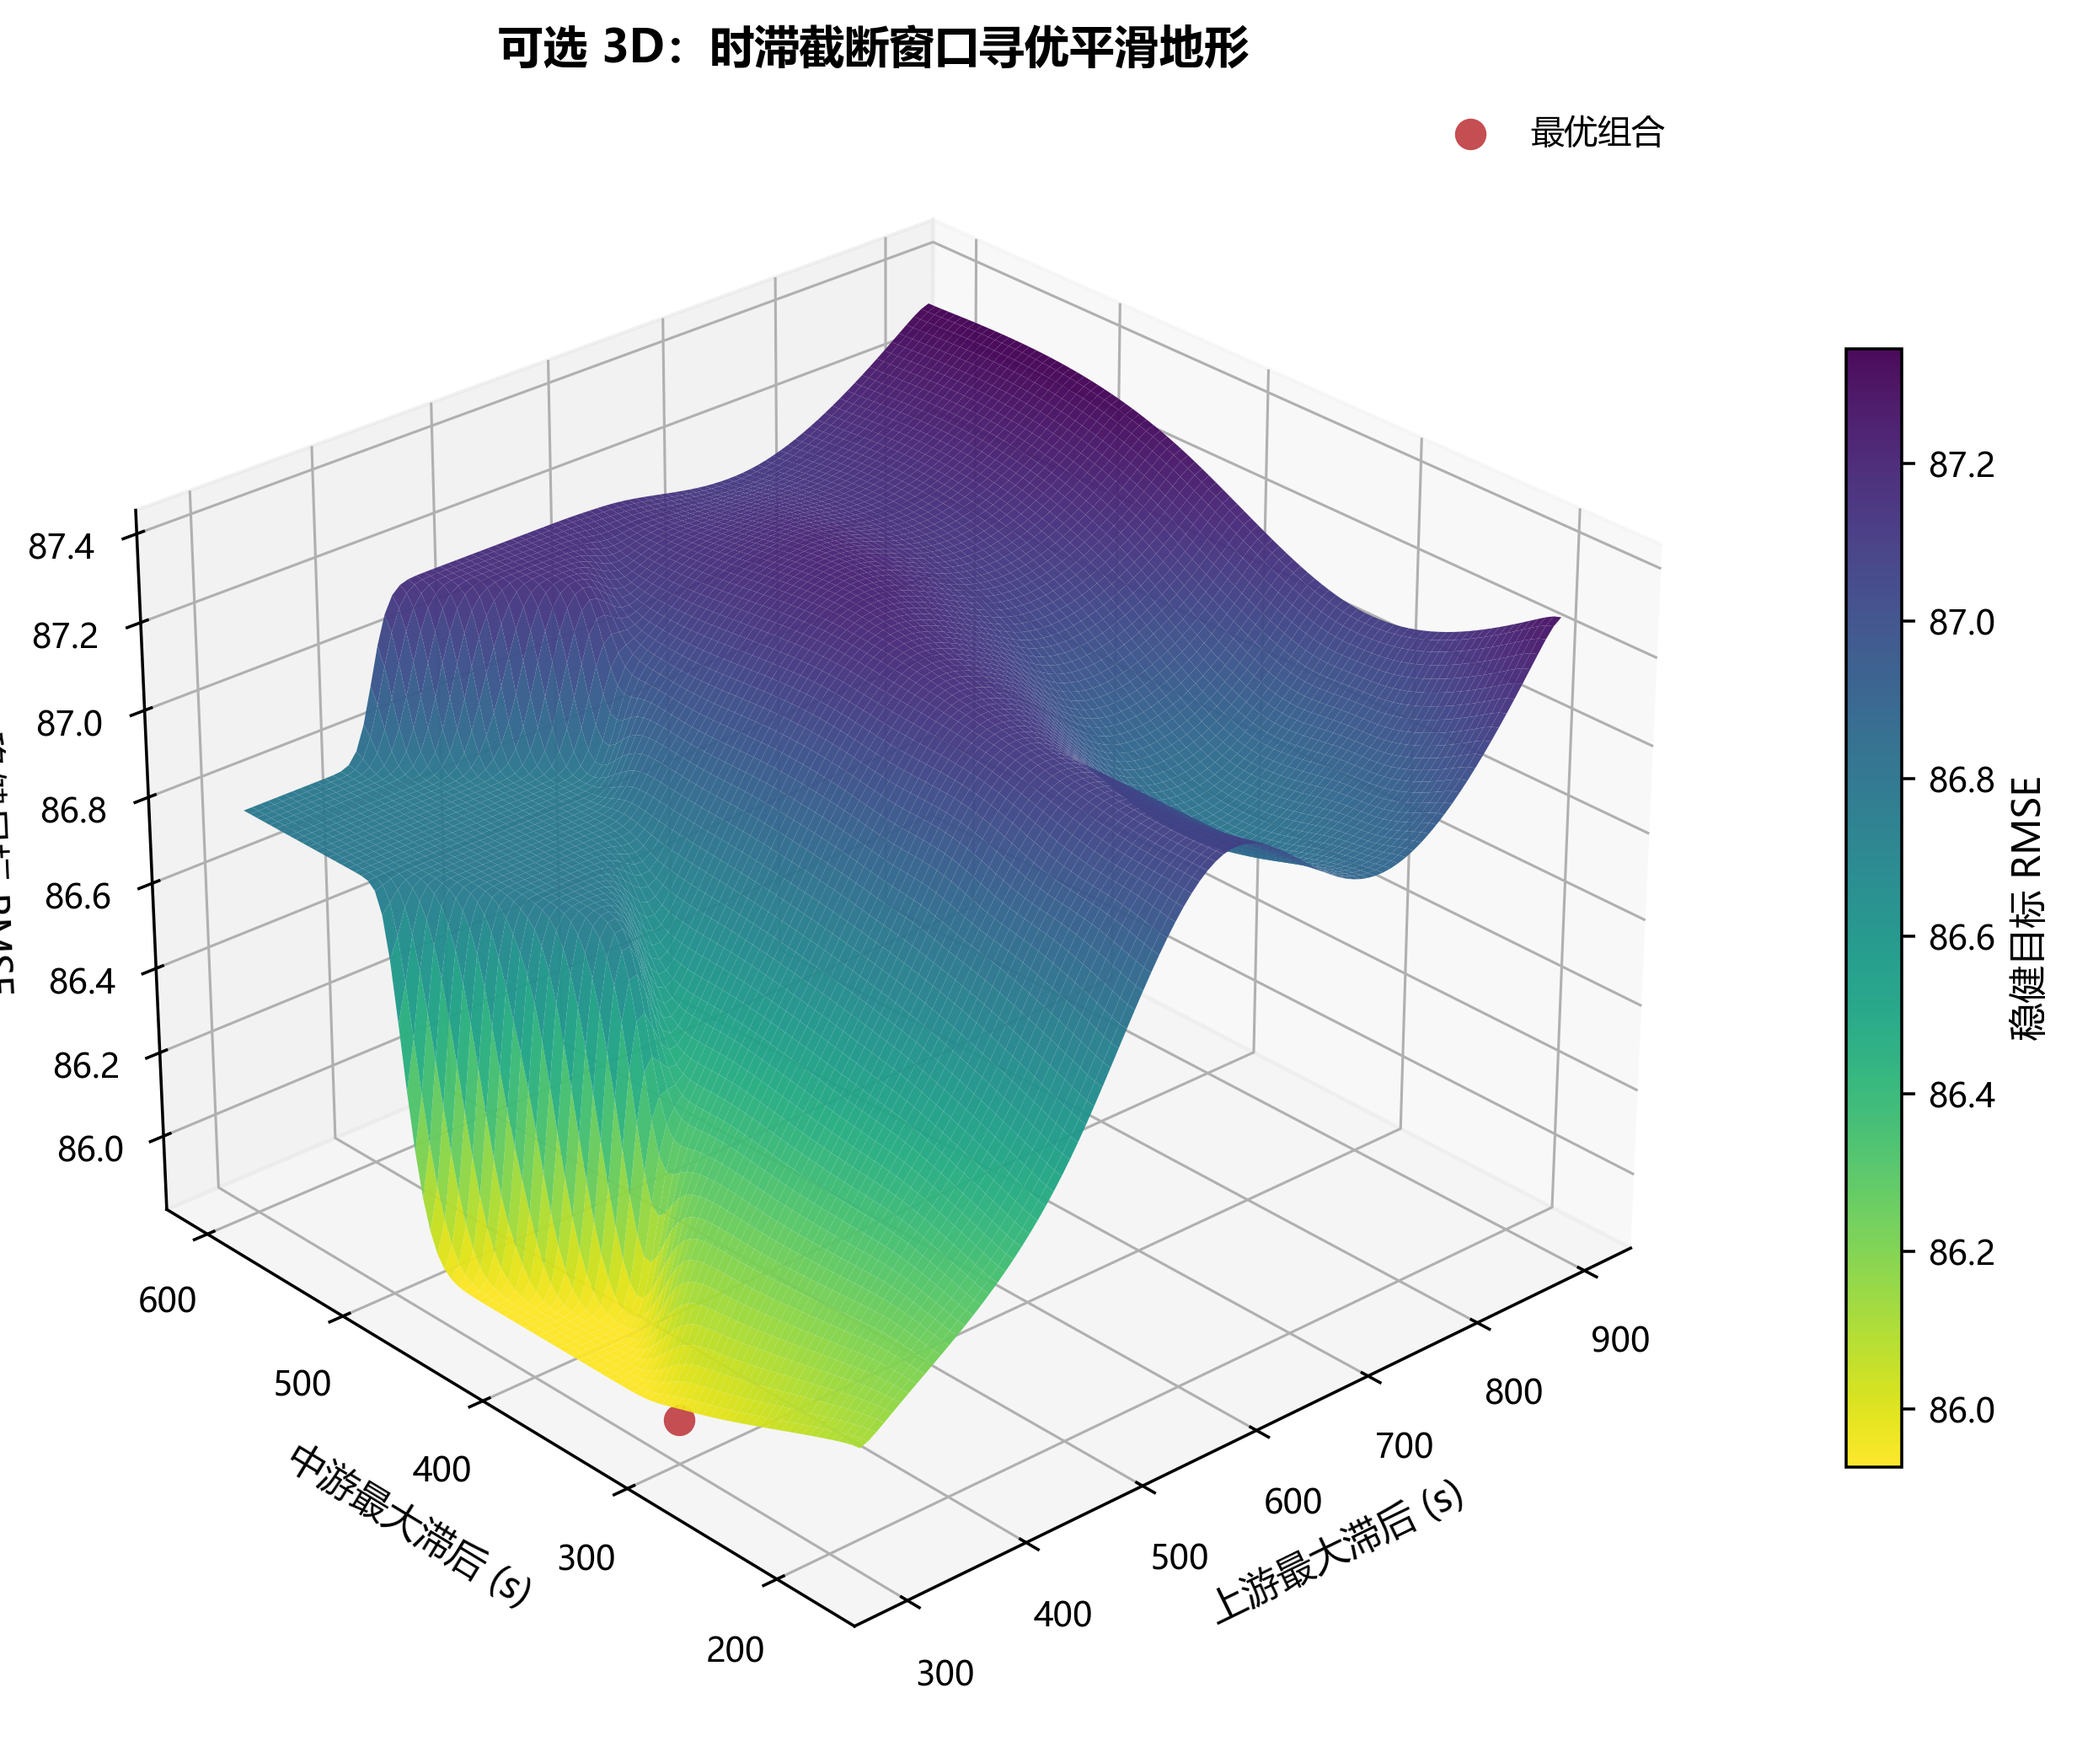
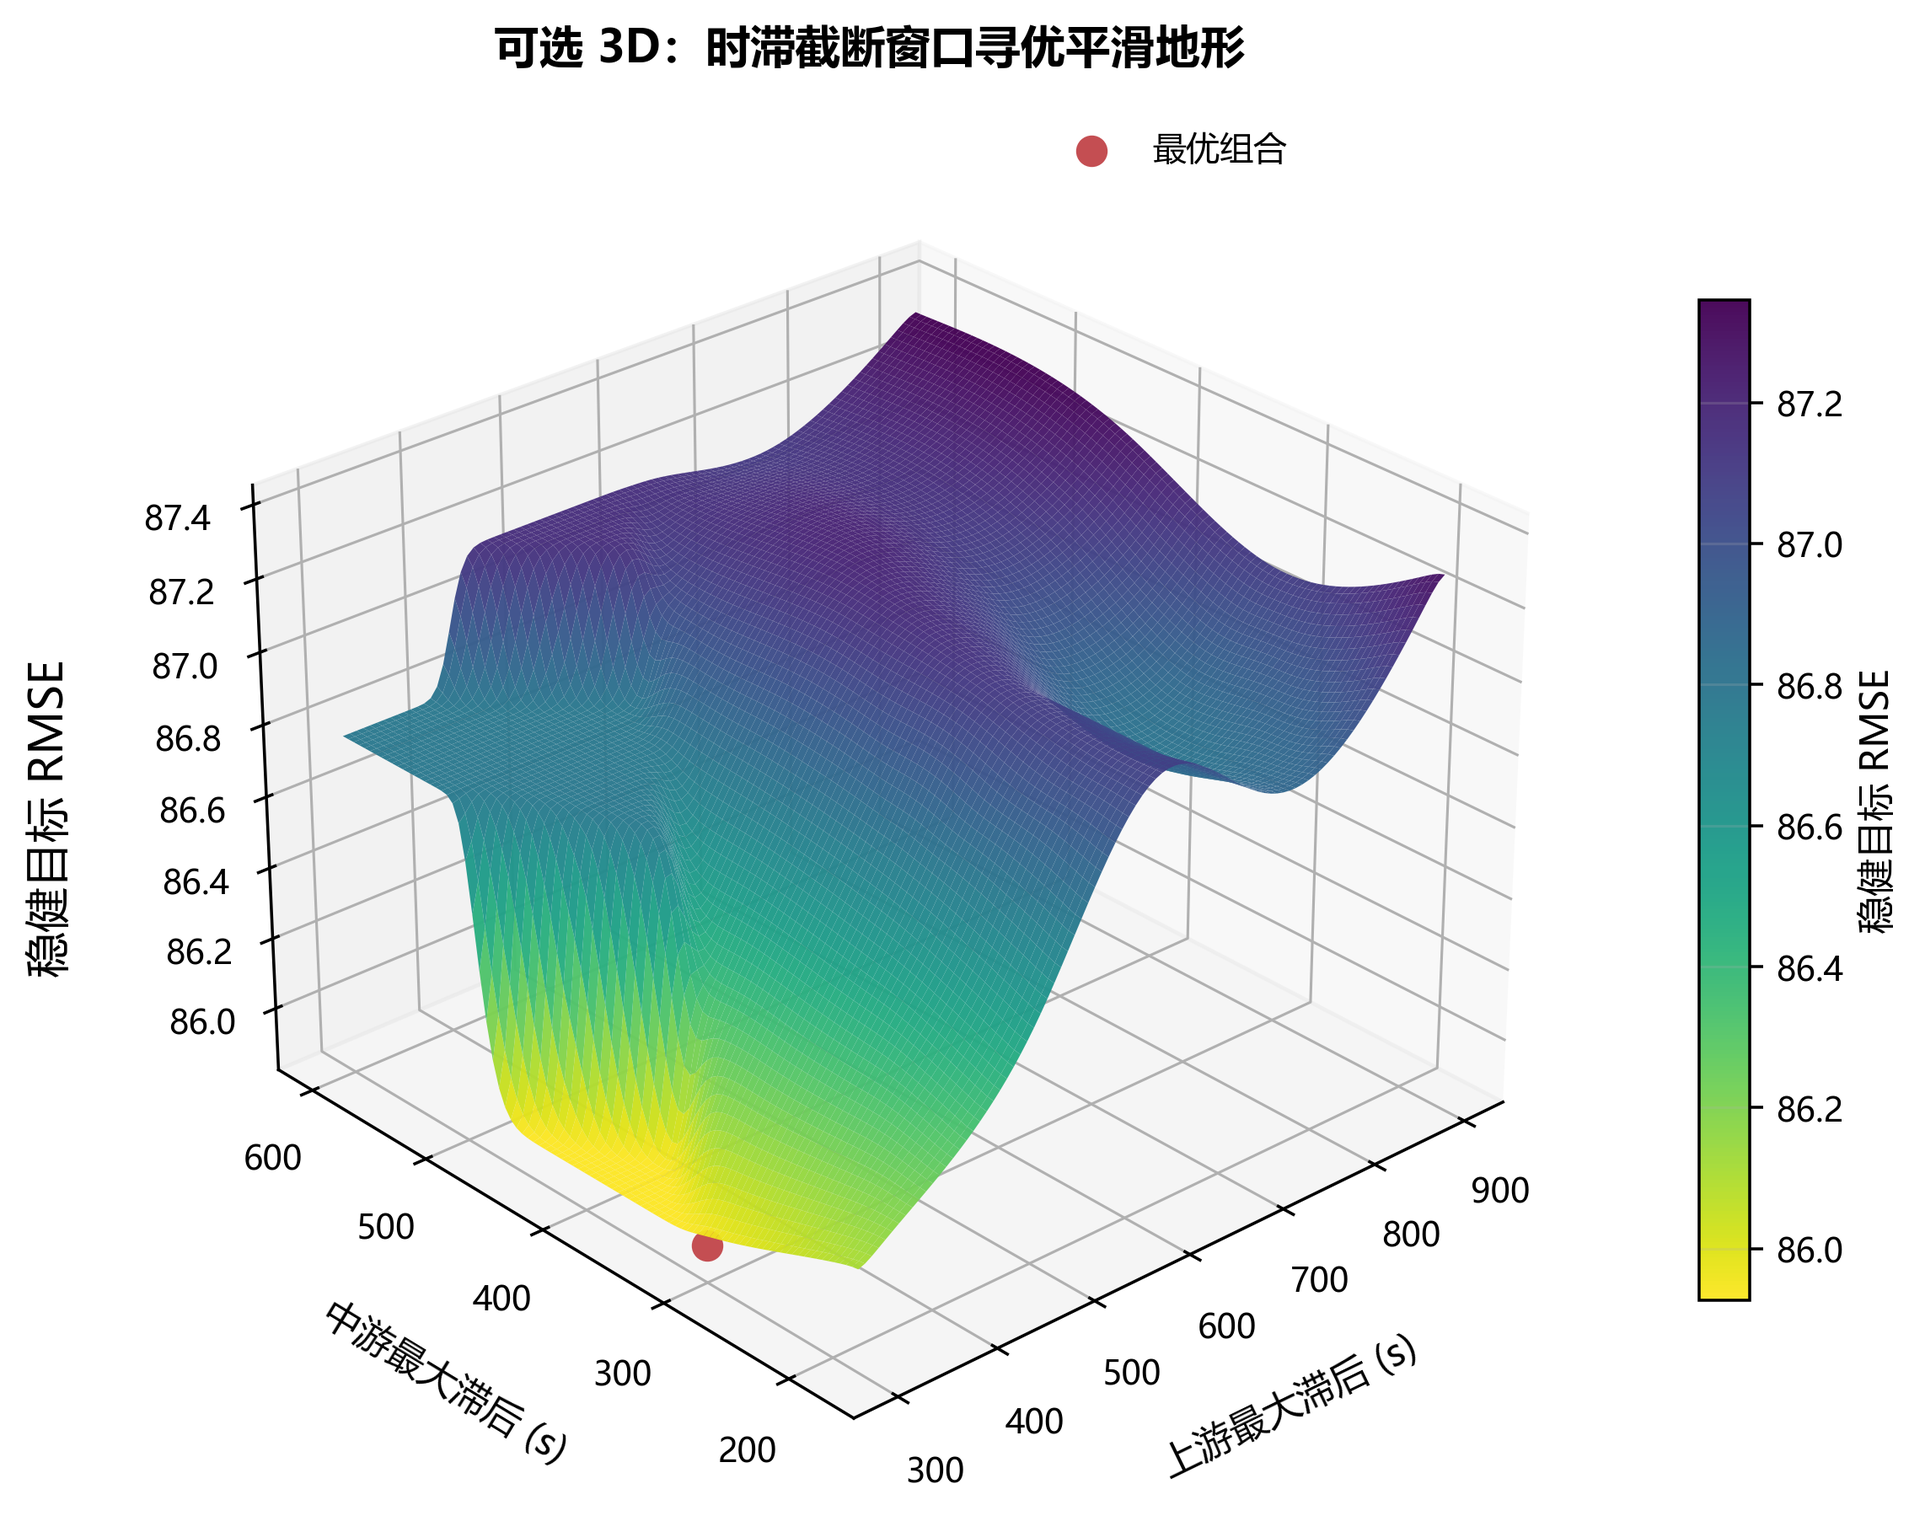
图片修改

diff --git a/code/第2问/q2_visualization_png.py b/code/第2问/q2_visualization_png.py
@@ -404,9 +404,21 @@ def plot_3d_lag_search_surface() -> None:
     Z = gaussian_filter(Z, sigma=1.5)
 
     best = search.loc[search["稳健目标RMSE"].idxmin()]
-    fig = plt.figure(figsize=(8.4, 6.4), constrained_layout=True)
-    ax = fig.add_subplot(111, projection="3d")
-    surf = ax.plot_surface(X, Y, Z, cmap="viridis_r", linewidth=0, antialiased=True, alpha=0.96, rcount=90, ccount=90)
+    fig = plt.figure(figsize=(7.5, 6.4), constrained_layout=False)
+
+    # 主图：左边仍然留给手动 z 标签，但整体不再拉太宽
+    ax = fig.add_axes([0.11, 0.10, 0.68, 0.80], projection="3d")
+    
+    surf = ax.plot_surface(
+        X, Y, Z,
+        cmap="viridis_r",
+        linewidth=0,
+        antialiased=True,
+        alpha=0.96,
+        rcount=90,
+        ccount=90
+    )
+    
     ax.scatter(
         [best["1#-6#上游风箱_最大滞后_s"]],
         [best["7#-12#中游风箱_最大滞后_s"]],
@@ -416,13 +428,30 @@ def plot_3d_lag_search_surface() -> None:
         depthshade=True,
         label="最优组合",
     )
-    ax.set_title("可选 3D：时滞截断窗口寻优平滑地形")
-    ax.set_xlabel("上游最大滞后 (s)")
-    ax.set_ylabel("中游最大滞后 (s)")
-    ax.set_zlabel("稳健目标 RMSE")
+    
+    ax.set_title("可选 3D：时滞截断窗口寻优平滑地形", pad=18)
+    ax.set_xlabel("上游最大滞后 (s)", labelpad=10)
+    ax.set_ylabel("中游最大滞后 (s)", labelpad=10)
+    
+    # 重点：zlabel 的 labelpad 不要太大，太大会被挤出左边
+    ax.set_zlabel("")
+    fig.text(
+        0.045, 0.50,
+        "稳健目标 RMSE",
+        rotation=90,
+        va="center",
+        ha="center",
+        fontsize=12
+    )
+    ax.zaxis.label.set_clip_on(False)
+    
     ax.view_init(elev=28, azim=-132)
-    ax.legend(frameon=False)
-    fig.colorbar(surf, ax=ax, shrink=0.68, pad=0.08, label="稳健目标 RMSE")
+    ax.legend(frameon=False, loc="upper center", bbox_to_anchor=(0.72, 1.02))
+    
+    # 手动放 colorbar，不让 matplotlib 自动挤压 3D 轴
+    cax = fig.add_axes([0.86, 0.22, 0.025, 0.58])
+    fig.colorbar(surf, cax=cax, label="稳健目标 RMSE")
+    
     save(fig, "可选_09_3D时滞截断窗口寻优平滑曲面.png")
 
 
